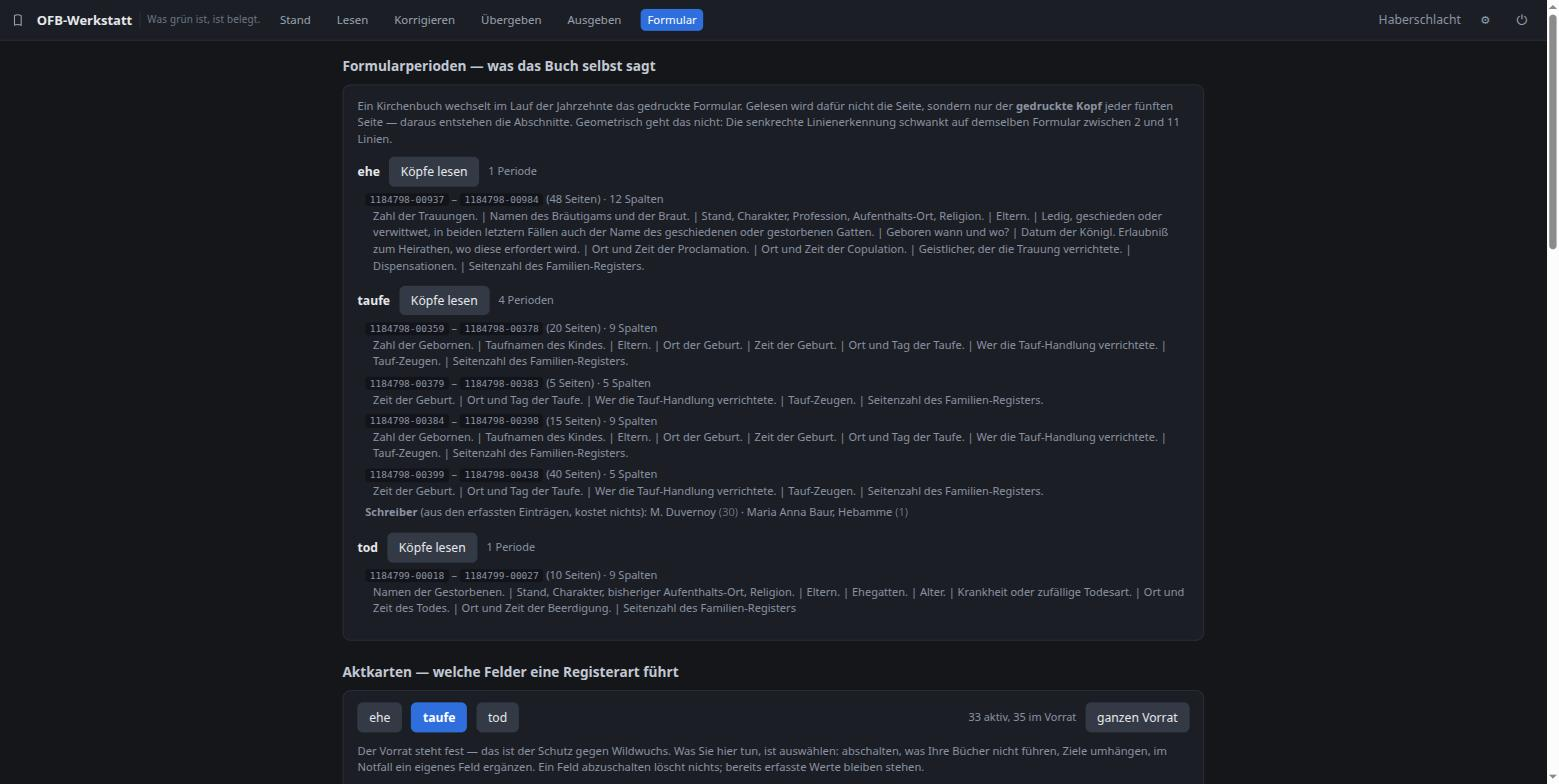
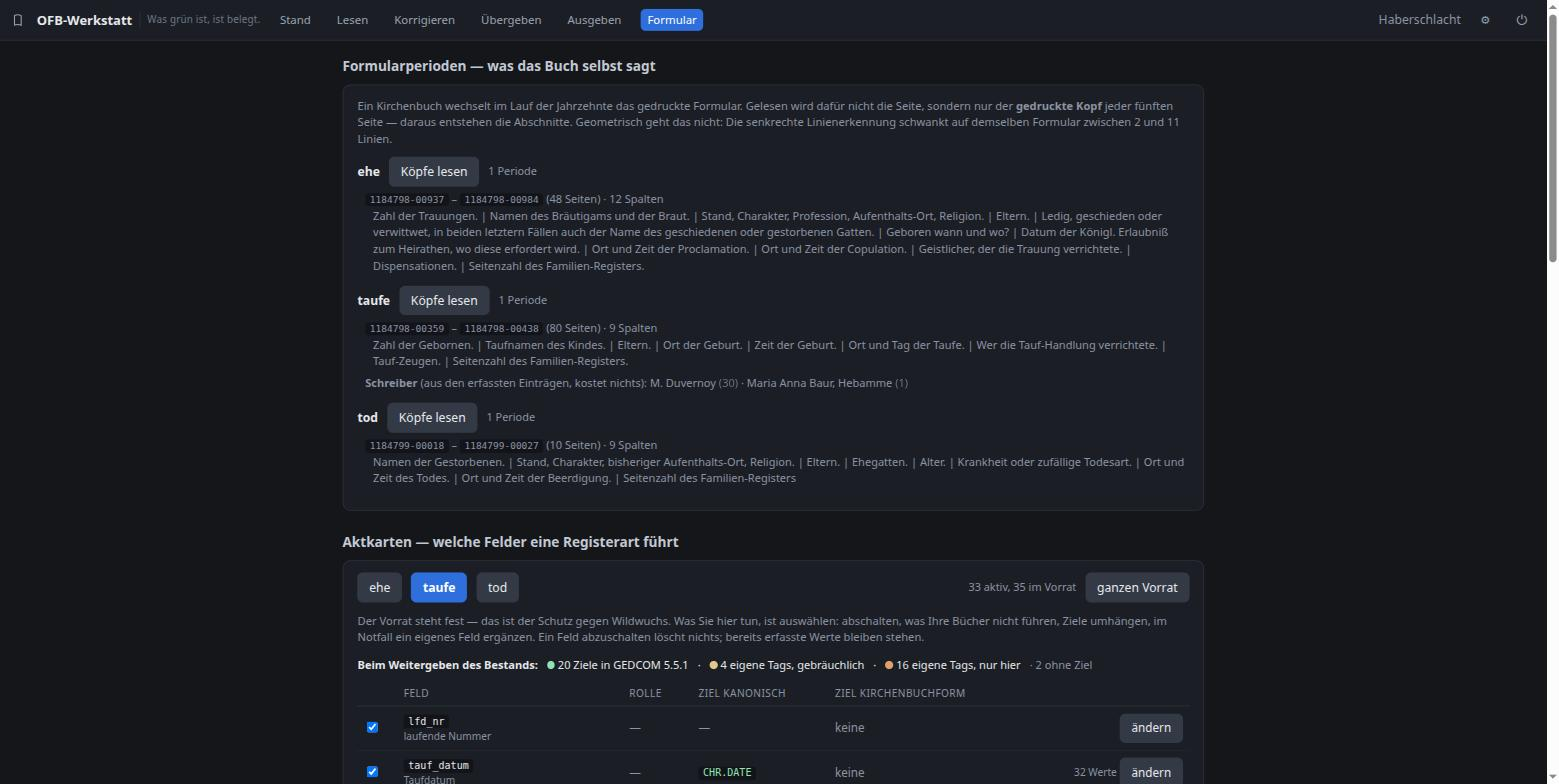
Zahlen und Bilder auf den Stand gebracht
Wer die Doku gegen das Repo prueft, findet sonst als Erstes die
veralteten Stellen — und dann glaubt er auch den uebrigen Zahlen nicht.

- README und demo/QUELLE.md sprachen von "34 Rohlesungen aus sechs
  Taufregisterseiten". Es sind 93 aus fuenfzehn Seiten aller drei
  Register: Taufe 34, Ehe 20, Tod 39.
- Der Screenshot der Formularseite zeigte "taufe: 4 Perioden" — das war
  die fehlerhafte Segmentierung von heute frueh. Jetzt eine Periode je
  Register, wie es der Band auch hergibt.
- Der Screenshot der Startseite zeigte den Stand vor der Runde.

Changed region(s): [[0.2155, 0.4592, 0.7697, 1.0], [0.9852, 0.3061, 1.0, 0.3367]]

diff --git a/README.md b/README.md
@@ -213,9 +213,9 @@ Zwei Teile laufen ganz ohne Modell: die Bestandspflege (Dublettensuche,
 ## Ausprobieren
 
 **Fünfzehn Beispielseiten liegen bei** — je fünf aus Tauf-, Ehe- und
-Sterberegister der Pfarrei Haberschlacht, Jahrgänge ab 1808, dazu 34
-Rohlesungen aus sechs Taufregisterseiten, so wie ein Modell sie gelesen
-hat, vor jeder Korrektur. Damit läuft der ganze Durchlauf ohne eigene
+Sterberegister der Pfarrei Haberschlacht, Jahrgänge ab 1808, dazu 93
+Rohlesungen aus fünfzehn Seiten aller drei Register — so wie ein Modell
+sie gelesen hat, vor jeder Korrektur. Damit läuft der ganze Durchlauf ohne eigene
 Bücher und ohne API-Schlüssel: einrichten, unter **Lesen** die Quelle
 *Testdaten* wählen, korrigieren, übergeben, GEDCOM ausgeben.
 

diff --git a/demo/QUELLE.md b/demo/QUELLE.md
@@ -48,6 +48,7 @@ die Records stehen wörtlich wie im Original.
 Ohne ihn bleibt alles gelb: Es gibt nichts, wogegen geprüft werden könnte.
 Mit ihm werden auf denselben Seiten 16 Felder grün.
 
-Dazu passen die Rohlesungen in `daten/pilot.json`: 34 Einträge aus sechs
-Taufregisterseiten, so wie ein Modell sie gelesen hat, vor jeder Korrektur.
+Dazu passen die Rohlesungen in `daten/pilot.json`: 93 Einträge aus fünfzehn
+Seiten — Taufe 34, Ehe 20, Tod 39 —, so wie ein Modell sie gelesen hat, vor
+jeder Korrektur.
 Damit läuft der ganze Durchlauf ohne API-Schlüssel — Quelle *Testdaten*.
